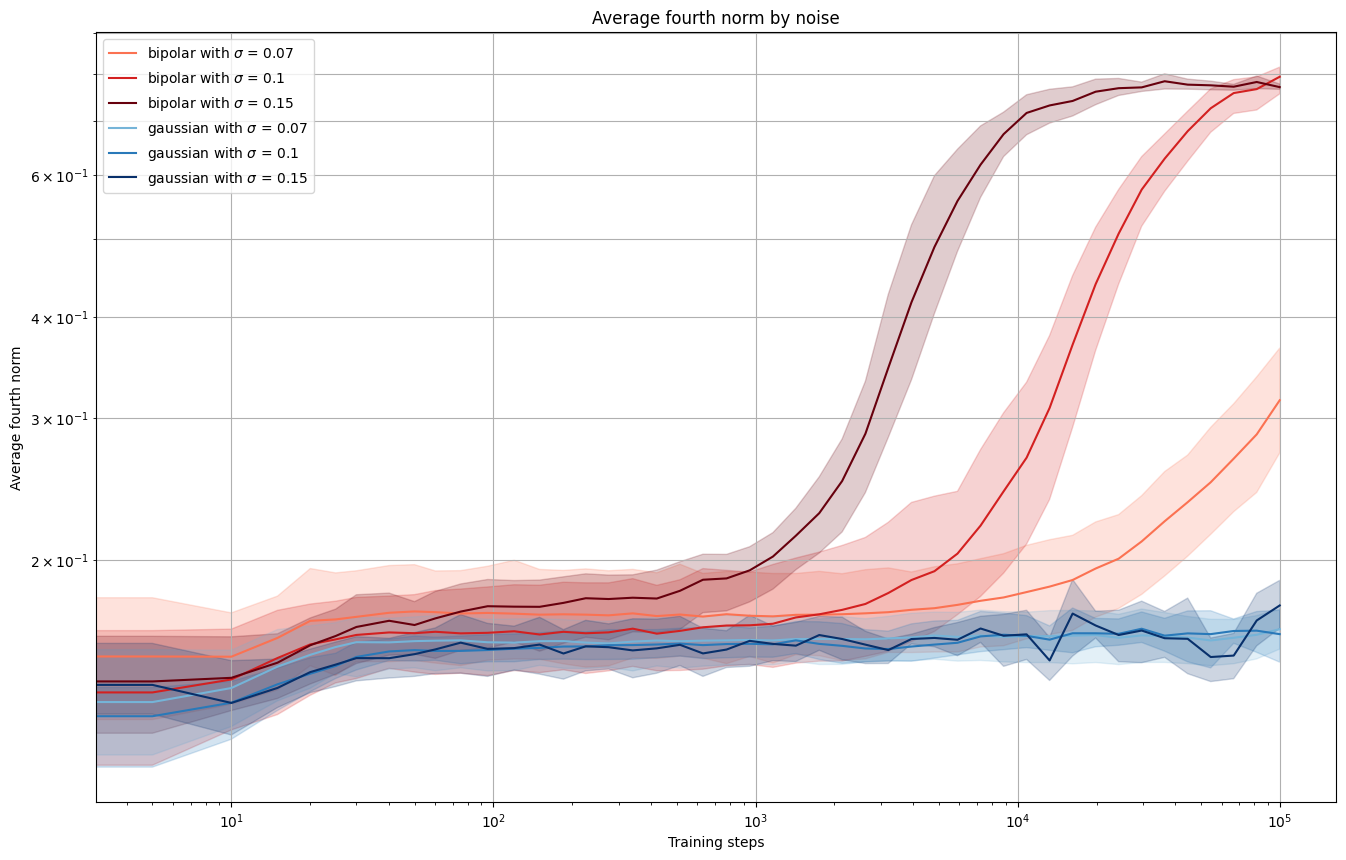
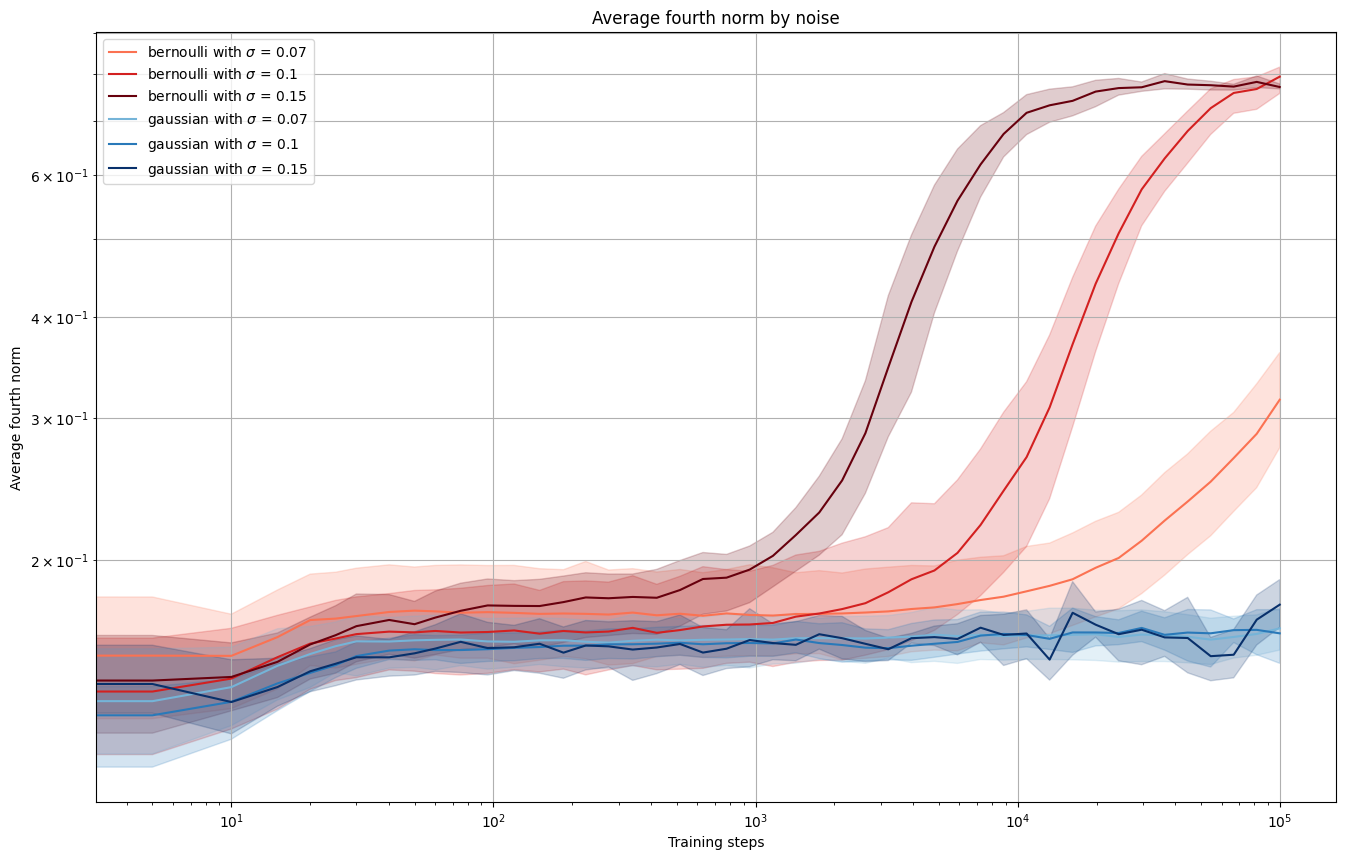
multi model plot

diff --git a/experiments/all_curves.py b/experiments/all_curves.py
@@ -1,0 +1,131 @@
+import numpy as np
+import pandas as pd
+import matplotlib.pyplot as plt
+import argparse
+import torch
+import io
+from contextlib import redirect_stdout
+import re
+import ast
+
+from utils import *
+from models import *
+
+def count_polysemantic_neurons(model):
+    weights = (model.W.detach().cpu().numpy())
+    activations = ((np.abs(weights) >= 0.8) & (np.abs(weights) <= 1.2)).sum(axis=1)
+    polysemantic = (activations > 1.1)
+    return polysemantic.sum(axis=1)
+
+def train_all_collisions(min_m, max_m, n_instances, n_features, tied, distri, nonlin, device, l1, steps, lr):
+    hidden_range = np.arange(min_m, max_m + min_m, min_m)
+    polysemantic_data = {'hidden_neurons': [], 'curve': [], 'polysemantic_neurons': []}
+    for n_hidden in hidden_range:
+        for lamb in [0.001, 0.01, 0.1]:
+            config = Config(
+                n_instances = n_instances,
+                n_features = n_features,
+                n_hidden = n_hidden,
+                tied_weights=tied,
+                weight_distri=distri,
+                nonlinearity=nonlin,
+                noise=NoiseOptions.NONE,
+                noise_stdev=0.0
+            )
+            model = AutoEncoder(config, device=device)
+            train_autoencoder(model, optimizer=torch.optim.AdamW, l1=lamb, steps=steps, moments=None, optimizer_kwargs={"lr": lr})
+            polysemantic_data['hidden_neurons'].append(n_hidden)
+            polysemantic_data['curve'].append(f"l1_{lamb}")
+            polysemantic_data['polysemantic_neurons'].append(count_polysemantic_neurons(model))
+    print("Done with l1")
+    
+    for n_hidden in hidden_range:
+        for stdev in [0.07, 0.1, 0.15]:
+            config = Config(
+                n_features=n_features,
+                n_hidden=n_hidden,
+                n_instances=n_instances,
+                tied_weights=tied,
+                weight_distri=distri,
+                nonlinearity=nonlin,
+                noise=NoiseOptions.BERNOULLI,
+                noise_stdev=stdev
+            )
+            model = AutoEncoder(
+                config=config,
+                device=device
+            )
+            train_autoencoder(model, optimizer=torch.optim.SGD, l1=0, steps=steps, optimizer_kwargs={"lr": 0.02})
+            polysemantic_data['hidden_neurons'].append(n_hidden)
+            polysemantic_data['curve'].append(f"bernoulli_{stdev}")
+            polysemantic_data['polysemantic_neurons'].append(count_polysemantic_neurons(model))
+    print("Done with Bernoulli")
+
+    polysemantic_data = np.array(polysemantic_data)
+    np.save("results/all_curves.npy", polysemantic_data)
+    return polysemantic_data
+
+def plot_all_collisions(polysemantic_data, n_features):
+    output = io.StringIO()
+    with redirect_stdout(output):
+        print(polysemantic_data)
+    captured = output.getvalue()
+    formatted = re.sub(r"array\((.*?)\)", r"\1", captured)
+    dict = ast.literal_eval(formatted)
+
+    hidden_neurons = dict['hidden_neurons']
+
+    curves = dict['curve']
+
+    polysemantic_neurons = dict['polysemantic_neurons']
+
+    data_by_type = {}
+    for x, t, y in zip(hidden_neurons, curves, polysemantic_neurons):
+        if t not in data_by_type:
+            data_by_type[t] = {'x': [], 'ys': [], 'ys2': [], 'ys3': [], 'ys4': [], 'ys5': []}
+        data_by_type[t]['x'].append(x)
+        data_by_type[t]['ys'].append(np.mean(np.array(y)))
+        data_by_type[t]['ys2'].append(np.percentile(np.array(y), 25))
+        data_by_type[t]['ys3'].append(np.percentile(np.array(y), 75))
+        data_by_type[t]['ys4'].append(np.percentile(np.array(y), 10))
+        data_by_type[t]['ys5'].append(np.percentile(np.array(y), 90))
+
+    color_map = {
+        'l1_0.001': 'blue',
+        'l1_0.01': 'green',
+        'l1_0.1': 'red',
+    }
+
+    for t, data in data_by_type.items():
+        if t == "l1_0.001" or t == "l1_0.01" or t == "l1_0.1":
+            color = color_map.get(t, 'black')
+            plt.plot(data["x"], data["ys"], alpha=1, color=color)
+            plt.plot(data["x"], data["ys2"], alpha=0.2, color=color)
+            plt.plot(data["x"], data["ys3"], alpha=0.2, color=color)
+            plt.plot(data["x"], data["ys4"], alpha=0.2, color=color)
+            plt.plot(data["x"], data["ys5"], alpha=0.2, color=color)
+    plt.xlabel("Number of Hidden Neurons")
+    plt.ylabel("Number of Polysemantic Neurons")
+    plt.title(f"Polysemantic Neurons for {n_features} Features")
+    plt.savefig("results/incidental_curves.png", bbox_inches="tight")
+
+def main(args):
+    polysemantic_data = train_all_collisions(args.min_m, args.max_m, args.n_instances, args.n_features, args.tied, args.distri, args.nonlin, args.device, args.l1, args.steps, args.lr)
+    polysemantic_data = np.load("results/all_curves.npy", allow_pickle=True)
+    plot_all_collisions(polysemantic_data, args.n_features)
+
+if __name__ == "__main__":
+    parser = argparse.ArgumentParser()
+    parser.add_argument("--min_m", type=int, default=256)
+    parser.add_argument("--max_m", type=int, default=4096)
+    parser.add_argument("--n_instances", type=int, default=16)
+    parser.add_argument("--n_features", type=int, default=256)
+    parser.add_argument("--tied", type=bool, default=True)
+    parser.add_argument("--distri", type=str, default="normal")
+    parser.add_argument("--nonlin", type=bool, default=True)
+    parser.add_argument("--device", type=str, default="cpu")
+    parser.add_argument("--l1", type=float, default=0.001)
+    parser.add_argument("--steps", type=int, default=7500)
+    parser.add_argument("--lr", type=float, default=0.001)
+    args = parser.parse_args()
+    main(args)

diff --git a/experiments/correlations.py b/experiments/correlations.py
@@ -1,0 +1,67 @@
+import numpy as np
+import matplotlib.pyplot as plt
+import seaborn as sns
+import argparse
+import torch
+
+from utils import *
+from models import *
+
+def train_correlations(min_m, max_m, n_instances, n_features, tied, distri, nonlin, device, l1, steps, lr):
+    hidden_range = np.arange(min_m, max_m + min_m, min_m)
+    weight_correlations = []
+    for n_hidden in hidden_range:
+        config = Config(
+            n_instances = n_instances,
+            n_features = n_features,
+            n_hidden = n_hidden,
+            tied_weights=tied,
+            weight_distri=distri,
+            nonlinearity=nonlin,
+            noise=NoiseOptions.NONE,
+            noise_stdev=0.0
+        )
+        model = AutoEncoder(config, device=device)
+        starting_weights = model.W.detach().cpu()
+        print(starting_weights.shape)
+        train_autoencoder(model, optimizer=torch.optim.AdamW, l1=l1, steps=steps, moments=None, optimizer_kwargs={"lr": lr})
+        ending_weights = model.W.detach().cpu()
+        print(ending_weights.shape)
+        weight_correlations.append(torch.einsum("i n m, i l m -> i n l", starting_weights, ending_weights).numpy())
+        print(weight_correlations[-1].shape)
+
+    weight_correlations = np.array(weight_correlations)
+    np.save("results/hidden_range_for_correl.npy", hidden_range)
+    np.save("results/weight_correlations.npy", weight_correlations)
+    return hidden_range, weight_correlations
+
+def plot_correlations(hidden_range, weight_correlations, n_features):
+    for i, data in zip(hidden_range, weight_correlations):
+        if i == 4096:
+            mean_correl = np.mean(data, axis = 0)
+            plt.figure(figsize=(10,10))
+            sns.heatmap(mean_correl, cmap="viridis")
+            plt.title(f"Weight Correlations for $n$ = 256, $m$ = {i}")
+            plt.savefig("results/incidental_initialisations.png", bbox_inches="tight")
+
+def main(args):
+    hidden_range, weight_correlations = train_correlations(args.min_m, args.max_m, args.n_instances, args.n_features, args.tied, args.distri, args.nonlin, args.device, args.l1, args.steps, args.lr)
+    hidden_range = np.load("results/hidden_range_for_correl.npy")
+    weight_correlations = np.load("results/weight_correlations.npy")
+    plot_correlations(hidden_range, weight_correlations, args.n_features)
+
+if __name__ == "__main__":
+    parser = argparse.ArgumentParser()
+    parser.add_argument("--min_m", type=int, default=256)
+    parser.add_argument("--max_m", type=int, default=4096)
+    parser.add_argument("--n_instances", type=int, default=16)
+    parser.add_argument("--n_features", type=int, default=256)
+    parser.add_argument("--tied", type=bool, default=True)
+    parser.add_argument("--distri", type=str, default="normal")
+    parser.add_argument("--nonlin", type=bool, default=True)
+    parser.add_argument("--device", type=str, default="cpu")
+    parser.add_argument("--l1", type=float, default=0.001)
+    parser.add_argument("--steps", type=int, default=7500)
+    parser.add_argument("--lr", type=float, default=0.001)
+    args = parser.parse_args()
+    main(args)

diff --git a/utils/data_utils.py b/utils/data_utils.py
@@ -26,13 +26,13 @@ def one_indexed_dataframe(matrix):
 @total_ordering
 class NoiseOptions(Enum):
     NONE = 1
-    BIPOLAR = 2
+    BERNOULLI = 2
     GAUSSIAN = 3
     def __lt__(self, other):
         return self.value < other.value
 
 def noise_to_colour(noise):
-    if noise == NoiseOptions.BIPOLAR:
+    if noise == NoiseOptions.BERNOULLI:
         return plt.cm.Reds
     elif noise == NoiseOptions.GAUSSIAN:
         return plt.cm.Blues
@@ -40,8 +40,8 @@ def noise_to_colour(noise):
         raise ValueError(f"Invalid noise option: {noise}")
 
 def noise_to_name(noise):
-    if noise == NoiseOptions.BIPOLAR:
-        return "bipolar"
+    if noise == NoiseOptions.BERNOULLI:
+        return "bernoulli"
     elif noise == NoiseOptions.GAUSSIAN:
         return "gaussian"
     else:
@@ -50,8 +50,8 @@ def noise_to_name(noise):
 def name_to_noise(name):
     if name == "none":
         return NoiseOptions.NONE
-    elif name == "bipolar":
-        return NoiseOptions.BIPOLAR
+    elif name == "bernoulli":
+        return NoiseOptions.BERNOULLI
     elif name == "gaussian":
         return NoiseOptions.GAUSSIAN
     else:

diff --git a/experiments/collisions.py b/experiments/collisions.py
@@ -37,8 +37,6 @@ def train_collisions(min_m, max_m, n_instances, n_features, tied, distri, nonlin
 def plot_collisions(hidden_range, polysemantic_neurons, n_features):
     log_means = np.log(np.mean(polysemantic_neurons, axis=1) + 1e-5)
     log_stdevs = np.log(np.std(polysemantic_neurons, axis=1) + 1e-5)
-    log_lower = log_means - log_stdevs
-    log_upper = log_means + log_stdevs
 
     x_line = np.linspace(hidden_range[0], hidden_range[-1], 500)
     y_line = n_features**2 / (4 * x_line)
@@ -59,8 +57,6 @@ def plot_collisions(hidden_range, polysemantic_neurons, n_features):
 
 def main(args):
     hidden_range, polysemantic_neurons = train_collisions(args.min_m, args.max_m, args.n_instances, args.n_features, args.tied, args.distri, args.nonlin, args.device, args.l1, args.steps, args.lr)
-    # hidden_range = np.load("results/hidden_range.npy")
-    # polysemantic_neurons = np.load("results/polysemantic_neurons.npy")
     plot_collisions(hidden_range, polysemantic_neurons, args.n_features)
 
 if __name__ == "__main__":

diff --git a/experiments/fourth_norm.py b/experiments/fourth_norm.py
@@ -83,7 +83,7 @@ if __name__ == "__main__":
     parser.add_argument("--distri", type=str, default="normal")
     parser.add_argument("--nonlin", type=bool, default=True)
     parser.add_argument("--device", type=str, default="cpu")
-    parser.add_argument("--noise", type=list_of_strings, default=["bipolar", "gaussian"])
+    parser.add_argument("--noise", type=list_of_strings, default=["bernoulli", "gaussian"])
     parser.add_argument("--noise_stdev", type=list_of_floats, default=[0.07, 0.1, 0.15])
     parser.add_argument("--l1", type=float, default=0)
     parser.add_argument("--steps", type=int, default=100000)

diff --git a/models/autoencoder.py b/models/autoencoder.py
@@ -44,7 +44,7 @@ class AutoEncoder(nn.Module):
             hidden = torch.einsum("...ibf, ifh -> ...ibh", features, self.W)
         else:
             hidden = torch.einsum("...ibf, ifh -> ...ibh", features, self.W_enc)
-        if self.config.noise == NoiseOptions.BIPOLAR:
+        if self.config.noise == NoiseOptions.BERNOULLI:
             noise = torch.randint(0, 2, (self.config.n_hidden, ), device=self.device)
             noise = noise * 2 * self.config.noise_stdev - self.config.noise_stdev
         elif self.config.noise == NoiseOptions.GAUSSIAN:

diff --git a/README.md b/README.md
@@ -2,4 +2,10 @@
 
 This is the repository for the paper ["What Causes Polysemanticity? An Alternative Origin Story of Mixed Selectivity from Incidental Causes"](https://arxiv.org/abs/2312.03096). Check out the blog post [here](https://tmychow.com/posts/incidental_poly_0.html)!
 
-Setup the environment by `pip install -r requirements.txt` and run the `evals.sh` script to reproduce the key results from the paper.
+Setup the environment by `pip install -r requirements.txt` and run the `evals.sh` script to reproduce the key results from the paper. It runs all of the scripts in `experiments`, which are:
+
+- `all_curves.py` is for the aesthetic plot of polysemanticity curves for multiple modeld
+- `sparsity.py` is for the plot on the speed of sparsification
+- `fourth_norm.py` is for the plot on the sparsity from noise
+- `collisions.py` is for the plot on the number of polysemantic neurons
+- `correlations.py` is for the plot on the correlation between start and end weights
